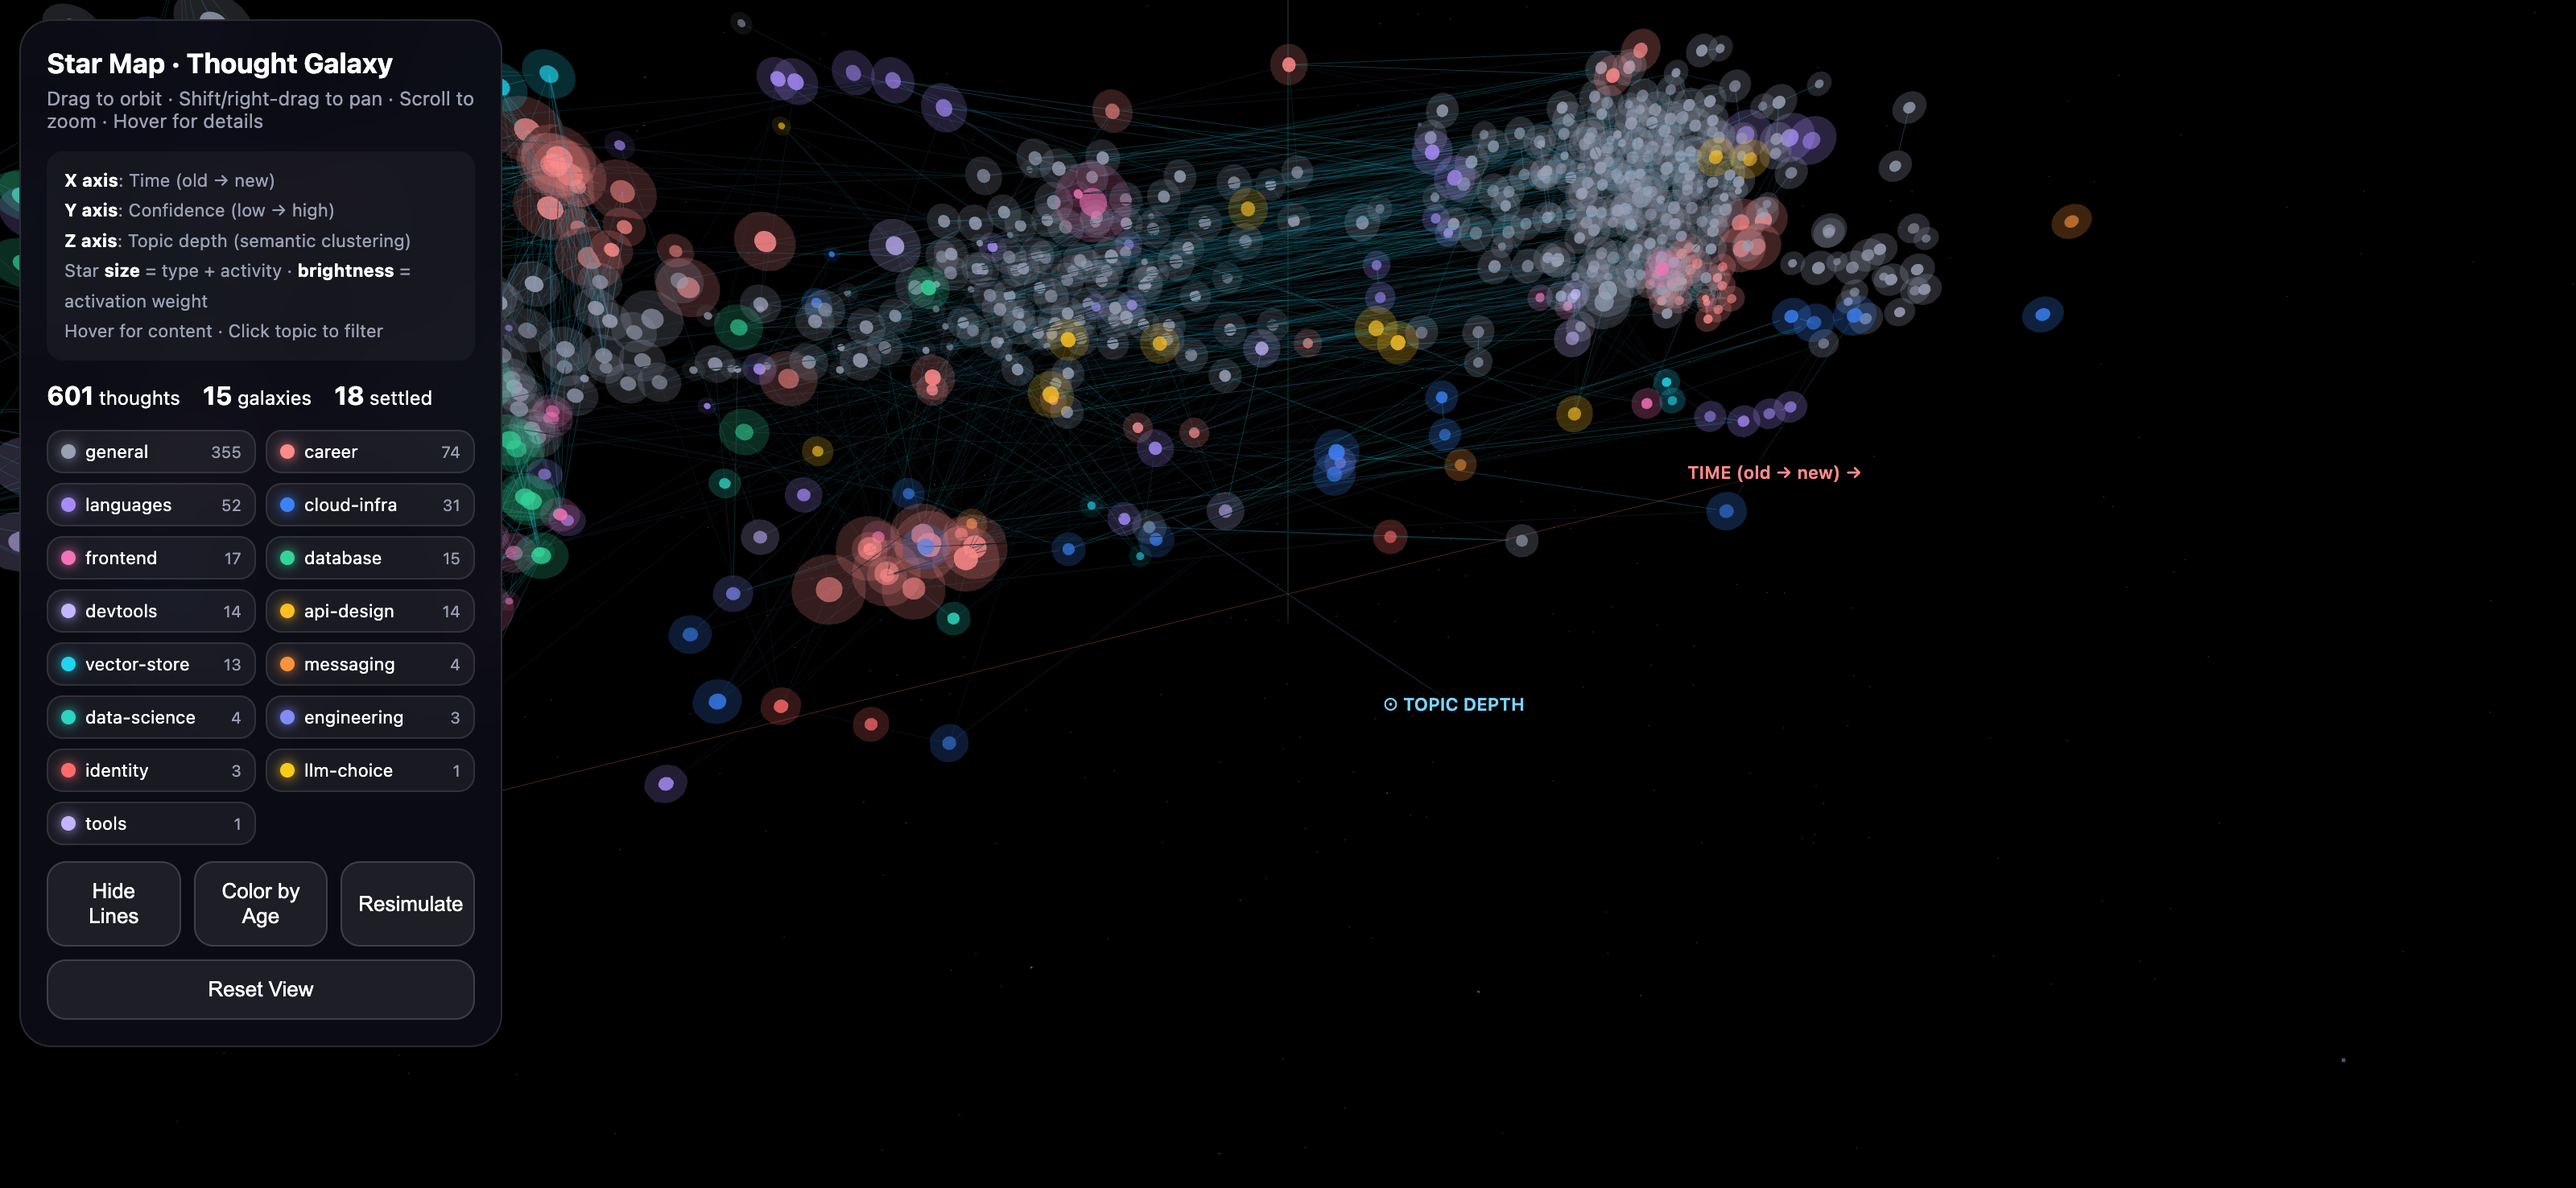
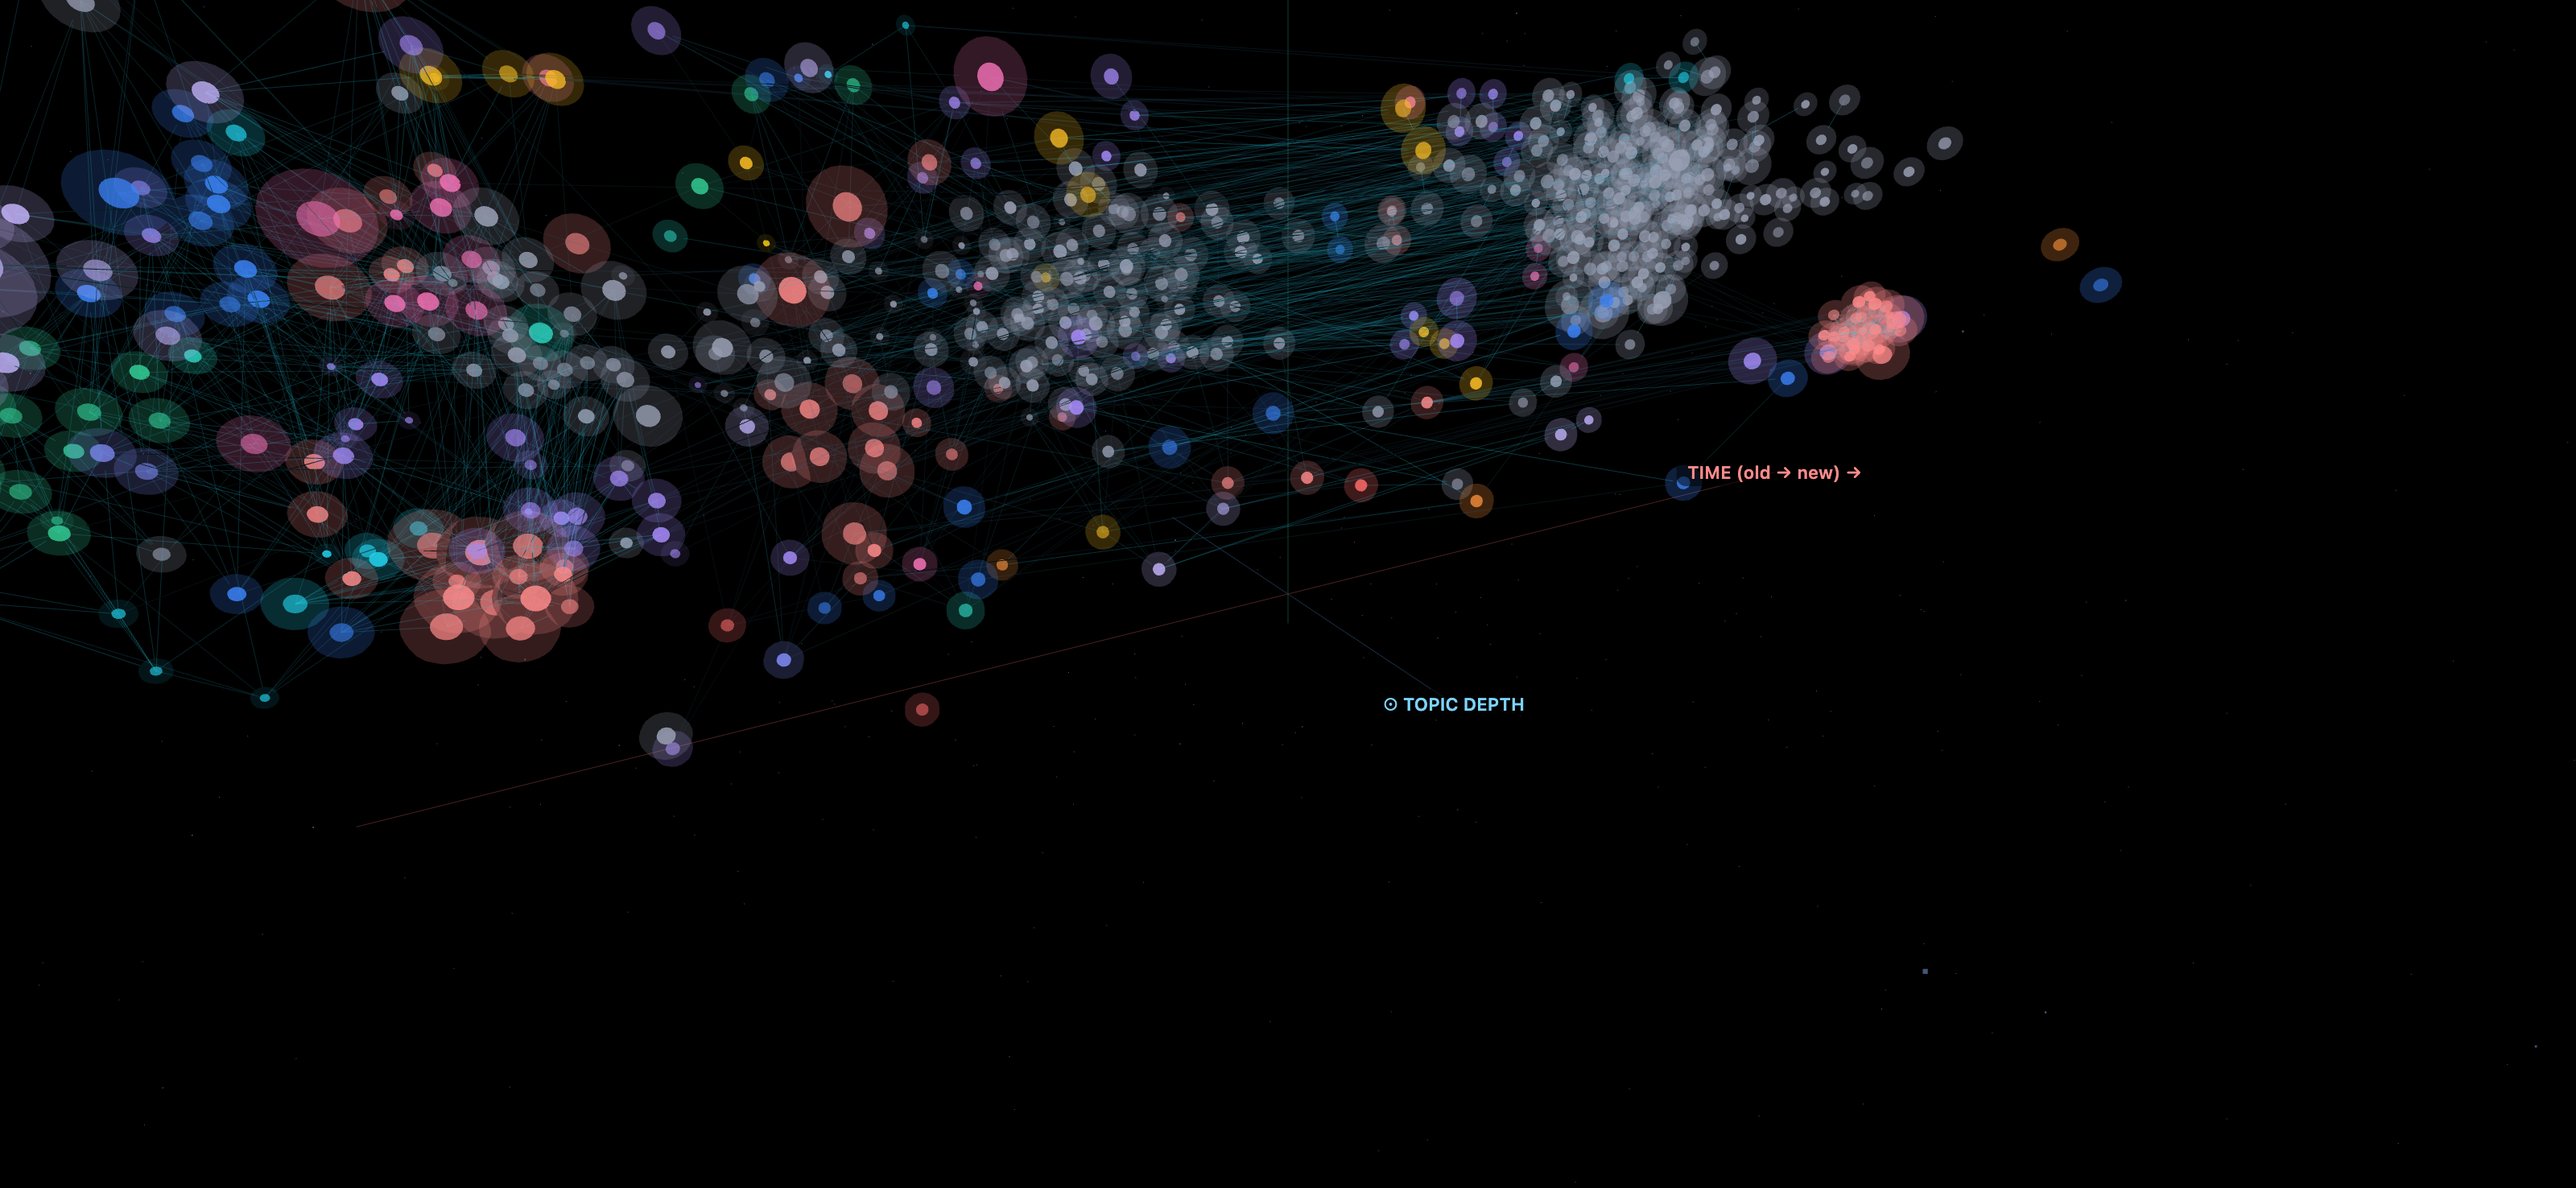
fix: fig6 annotation arrow corrected, fig5 star map without panel overlay
- Fig 6: annotation arrow now correctly points to the 0% isolated bar
  in the 'Cross-tool only' category, with curved arrow for clarity
- Fig 5: control panel hidden via JS before screenshot so the entire
  star map is visible with no overlay

Changed region(s): [[0.0, 0.0, 0.7812, 0.8726], [0.7812, 0.1558, 0.8438, 0.2805]]

diff --git a/paper/generate_figures.py b/paper/generate_figures.py
@@ -287,12 +287,14 @@ def fig6_cross_tool():
     ax.legend(loc="upper right", framealpha=0.9)
     ax.set_ylim(0, 65)
 
-    # Annotation moved to the right side so it doesn't overlap bars
-    ax.annotate("0%: structurally\nimpossible for\nper-tool systems",
-                xy=(1 - width/2, 0), xytext=(1.15, 28),
+    # Annotation pointing to the 0% isolated bar in "Cross-tool only" (index 1)
+    # The isolated bar is at x=1-width/2, y=0
+    ax.annotate("0%: structurally impossible\nfor per-tool systems",
+                xy=(1 - width/2, 0.5), xytext=(0.55, 30),
                 fontsize=9, fontstyle="italic", color=COLORS["isolated"],
-                ha="center",
-                arrowprops=dict(arrowstyle="->", color=COLORS["isolated"], lw=1.2))
+                ha="center", va="center",
+                arrowprops=dict(arrowstyle="->", color=COLORS["isolated"], lw=1.5,
+                                connectionstyle="arc3,rad=0.3"))
 
     plt.tight_layout()
     save(fig, "fig6_cross_tool")
